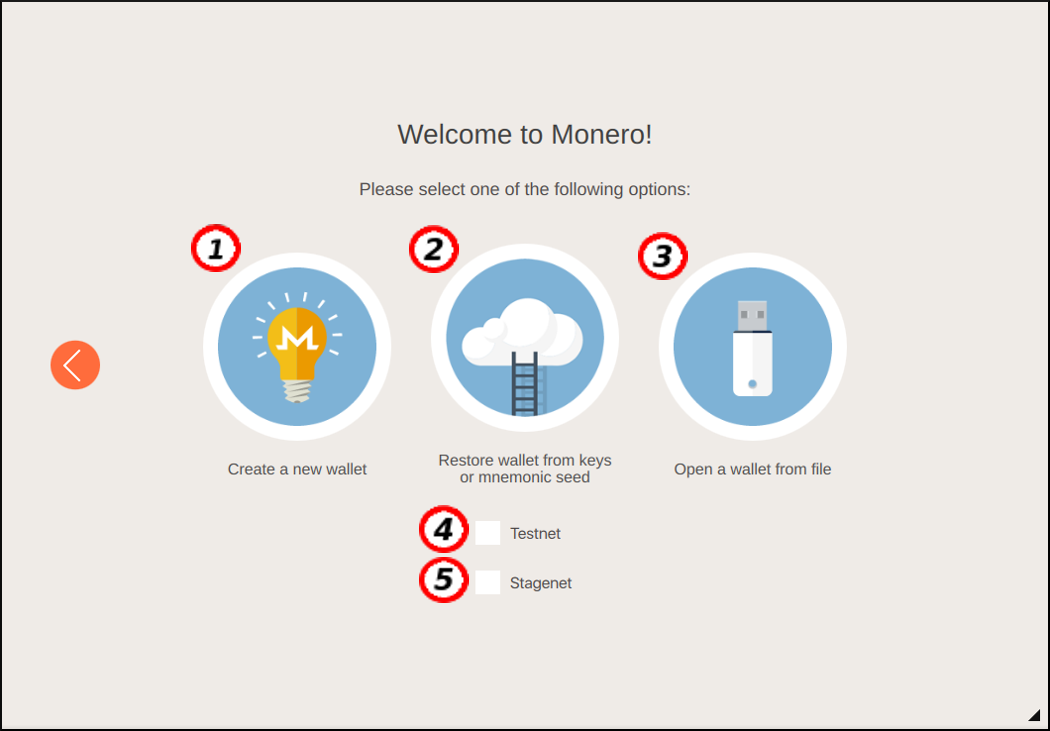
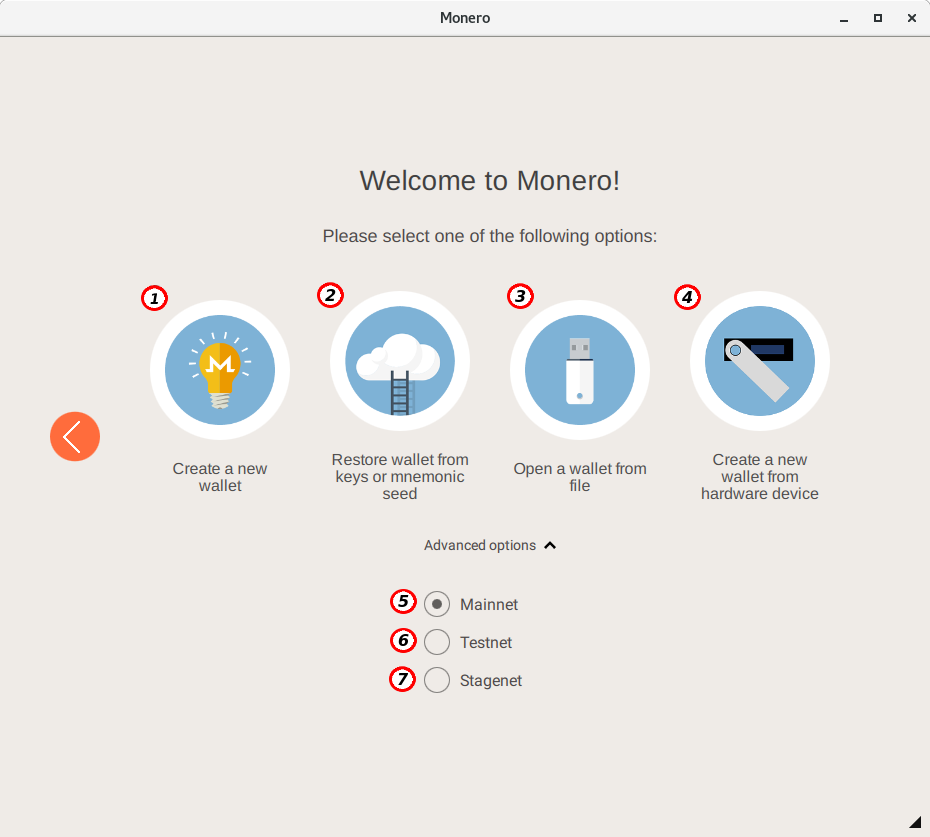
add hardware wallet section and instructions

diff --git a/monero-GUI-guide.md b/monero-GUI-guide.md
@@ -14,6 +14,8 @@
       + 2.2.1. [Restoring from seed](#221-restoring-from-seed)
       + 2.2.2. [Restoring from keys](#222-restoring-from-keys)    
    + 2.3. [Open a wallet from file](#23-open-a-wallet-from-file)    
+   + 2.4. [Create new wallet from hardware](#24-create-new-wallet-from-hardware)
+      + 2.4.1. [Create the wallet](#241-create-the-wallet)
 3. **[Send Monero](#3-send-monero)**    
    + 3.1. [Address Book](#31-address-book)
 4. **[Receive Monero](#4-receive-monero)**    
@@ -81,8 +83,10 @@ On this page you can choose between three methods for accessing a wallet, and tw
 **(1) Create a new wallet:** Start the procedure to make a new wallet. Choose this option if this is your first time using Monero.    
 **(2) Restore wallet from keys or mnemonic seed:** Click here if you want to recover a pre-existing wallet using the mnemonic seed or the keys.    
 **(3) Open a wallet from file:** Choose this option to select a pre-existing wallet from your files with the extension `.keys`.    
-**(4) Testnet:** Check this box if you would like to use a development network instead of the main network. Testnet is designed to let developers test new features that are not available on Mainnet or Stagenet.    
-**(5) Stagenet:** Check this box if you would like to use a network for staging instead of the main network. Stagenet mimics the features of Mainnet and is designed to let end users test Monero without the risk of losing funds.    
+**(4) Create new wallet from hardware:** Create a new wallet from an hardware device (like Ledger)    
+**(5) Mainnet:** *Advanced:* use the main Monero network    
+**(6) Testnet:** *Advanced:* Check this box if you would like to use a development network instead of the main network. Testnet is designed to let developers test new features that are not available on Mainnet or Stagenet.    
+**(7) Stagenet:** *Advanced:* Check this box if you would like to use a network for staging instead of the main network. Stagenet mimics the features of Mainnet and is designed to let end users test Monero without the risk of losing funds.    
 
 ## 2.1. Create new wallet
 ![new](media/wizard_3-create.png)
@@ -150,6 +154,24 @@ A detailed guide is available on getmonero.org: ['Restoring wallet from keys'](h
 
 ## 2.3 Open a wallet from file
 After clicking this option a window will pop up. Navigate to your file with the extension `.keys`, select it and click the right arrow.
+
+## 2.4 Create new wallet from hardware
+
+### 2.4.1 Create the wallet
+![2.4.1](media/create_hardware_wallet.png)
+
+**(1) Wallet name:** Give a name for your wallet (in this example `ledger-test` is used).    
+**(2) Restore Height (optional):** If you know the block height that your wallet was created at, you can specify it here so the wallet doesn't have to scan the entire blockchain looking for your funds. For example, if your first transaction was included in block `1350000`, you should put a slightly lower height (e.g. `1330000`) so the wallet will start scanning from there, saving you some time.    
+**(3) Subaddress lookahead (optional):** pregenerate a number of accounts with a number of subaddresses each    
+**(4) Device name:** Select the hardware wallet you want to use (at the moment, only 'Ledger' is available)    
+**(5) Wallet location:** Select the destination folder of the wallet. 
+&nbsp;
+
+All next steps are the same as explained from [2.1.1](#211-add-a-password) to [2.1.3](#213-run-a-full-node)
+&nbsp;
+
+Step by step guide to generate a Ledger wallet with the Monero GUI for all operative systems (StackExchange):    
+[How do I generate a Ledger Monero wallet with the GUI (monero-wallet-gui)?](https://monero.stackexchange.com/questions/9901/how-do-i-generate-a-ledger-monero-wallet-with-the-gui-monero-wallet-gui)
 
 # 3. Send Monero
 
